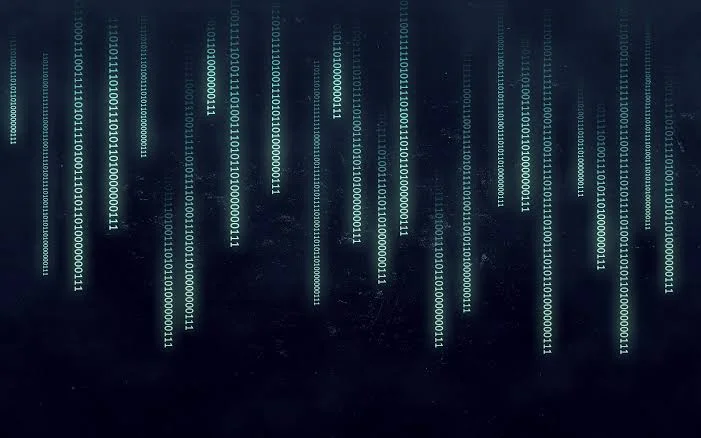
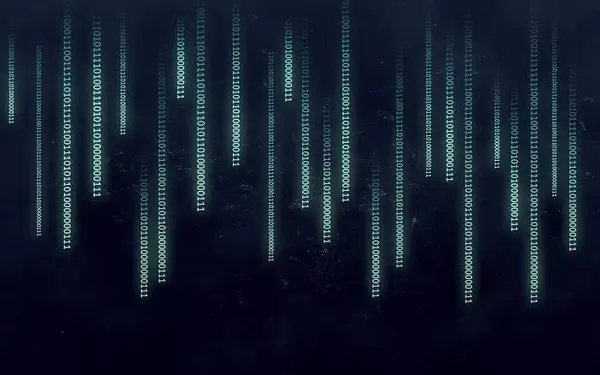
Update seo

diff --git a/index.html b/index.html
@@ -3,7 +3,7 @@
 <head>
   <meta charset="utf-8" />
   <title>Mikael Araya — Freelance Full-Stack Software Engineer | E-Commerce | Open Source</title>
-  <meta name="keywords" content="Mikael Araya, software developer, full stack developer, e-commerce engineer, TypeScript, Node.js, React, Next.js, GraphQL, GraphQL Yoga, Fastify,
+  <meta name="keywords" content="Mikael Araya, Mike Araya, Michael Araya, MikeAraya, software developer, full stack developer, e-commerce engineer, TypeScript, Node.js, React, Next.js, GraphQL, GraphQL Yoga, Fastify,
   open source contributor, unchained engine, headless e-commerce, MongoDB, PostgreSQL, Redis, Tailwind CSS, Zustand, Radix UI,
   Stripe, PayPal, Keycloak, OAuth2, OpenTelemetry, Sentry, Docker, Jenkins, Cypress, Playwright, Vitest, Jest,
   Claude Agent SDK, MCP Servers, AI agents, Drizzle ORM, Apache Solr, ethereum developer, solidity developer, Hyperledger Fabric,
@@ -37,7 +37,7 @@
     "@context": "https://schema.org",
     "@type": "Person",
     "name": "Mikael Araya",
-    "alternateName": "Mikael Araya Mengistu",
+    "alternateName": ["Mikael Araya Mengistu", "Mike Araya", "Michael Araya", "MikeAraya"],
     "url": "https://mikearaya.github.io",
     "image": "https://mikearaya.github.io/images/og-image.jpg",
     "jobTitle": "Freelance Full-Stack Software Engineer",
@@ -152,12 +152,41 @@
 
   <link rel="preconnect" href="https://fonts.googleapis.com">
   <link rel="preconnect" href="https://fonts.gstatic.com" crossorigin>
-  <link rel="preload" as="style" href="https://fonts.googleapis.com/css2?family=Inter:wght@300;400;500;600;700;800&family=JetBrains+Mono:wght@400;500&display=swap">
-  <link href="https://fonts.googleapis.com/css2?family=Inter:wght@300;400;500;600;700;800&family=JetBrains+Mono:wght@400;500&display=swap" rel="stylesheet" media="print" onload="this.media='all'">
-  <noscript><link href="https://fonts.googleapis.com/css2?family=Inter:wght@300;400;500;600;700;800&family=JetBrains+Mono:wght@400;500&display=swap" rel="stylesheet"></noscript>
+  <link href="https://fonts.googleapis.com/css2?family=Inter:wght@300;400;500;600;700;800&family=JetBrains+Mono:wght@400&display=swap" rel="stylesheet" media="print" onload="this.media='all'">
+  <noscript><link href="https://fonts.googleapis.com/css2?family=Inter:wght@300;400;500;600;700;800&family=JetBrains+Mono:wght@400&display=swap" rel="stylesheet"></noscript>
 
-  <link rel="stylesheet" href="css/modern.css" />
-  <link rel="stylesheet" href="css/chat.css" />
+  <link rel="preload" href="images/bg.webp" as="image">
+  <style>
+    :root{--bg:#0a0a0b;--bg-alt:#111113;--bg-card:#18181b;--text:#e4e4e7;--text-muted:#a1a1aa;--text-dim:#71717a;--accent:#6366f1;--accent-light:#818cf8;--accent-glow:rgba(99,102,241,.15);--border:rgba(255,255,255,.06);--radius:12px;--radius-sm:8px;--font:'Inter',-apple-system,BlinkMacSystemFont,'Segoe UI',sans-serif;--transition:.3s cubic-bezier(.4,0,.2,1);--max-width:1200px}
+    *,*::before,*::after{margin:0;padding:0;box-sizing:border-box}
+    html{scroll-behavior:smooth;scroll-padding-top:80px}
+    body{font-family:var(--font);background:var(--bg);color:var(--text);font-size:16px;line-height:1.7;-webkit-font-smoothing:antialiased;overflow-x:hidden}
+    img{max-width:100%;height:auto}
+    .container{max-width:var(--max-width);margin:0 auto;padding:0 24px}
+    .accent{color:var(--accent-light)}
+    .preloader{position:fixed;inset:0;z-index:9999;background:var(--bg);display:flex;align-items:center;justify-content:center;transition:opacity .5s,visibility .5s}
+    .preloader.loaded{opacity:0;visibility:hidden}
+    .preloader__spinner{width:40px;height:40px;border:3px solid var(--border);border-top-color:var(--accent);border-radius:50%;animation:spin .8s linear infinite}
+    @keyframes spin{to{transform:rotate(360deg)}}
+    .nav{position:fixed;top:0;left:0;right:0;z-index:1000;padding:16px 0;transition:all var(--transition)}
+    .nav__container{max-width:var(--max-width);margin:0 auto;padding:0 24px;display:flex;align-items:center;justify-content:space-between}
+    .nav__logo{font-size:1.5rem;font-weight:800;color:var(--text);letter-spacing:-.5px}
+    .nav__menu{display:flex;align-items:center;gap:8px;list-style:none}
+    .nav__link{color:var(--text-muted);font-size:.875rem;font-weight:500;padding:8px 16px;border-radius:var(--radius-sm);transition:all var(--transition);text-decoration:none}
+    .nav__toggle{display:none}
+    .hero{position:relative;min-height:100vh;display:flex;align-items:center;justify-content:center;overflow:hidden}
+    .hero__bg{position:absolute;inset:0;background:url('images/bg.webp') no-repeat center/cover;filter:brightness(.15)}
+    .hero__content{position:relative;z-index:1;text-align:center;padding:0 24px}
+    .hero__title{font-size:clamp(2.5rem,6vw,4rem);font-weight:800;line-height:1.1;margin-bottom:16px;letter-spacing:-1px}
+    .hero__roles{font-size:clamp(1rem,2.5vw,1.3rem);color:var(--text-muted);margin-bottom:32px;min-height:2em}
+    .hero__roles .accent{color:var(--accent-light);border-right:2px solid var(--accent-light)}
+  </style>
+  <link rel="stylesheet" href="css/modern.css" media="print" onload="this.media='all'" />
+  <link rel="stylesheet" href="css/chat.css" media="print" onload="this.media='all'" />
+  <noscript>
+    <link rel="stylesheet" href="css/modern.css" />
+    <link rel="stylesheet" href="css/chat.css" />
+  </noscript>
 </head>
 
 <body>
@@ -233,7 +262,7 @@
       <h2 class="section__title reveal">About <span class="accent">Me</span></h2>
       <div class="about">
         <div class="about__image reveal">
-          <img src="images/my_image.webp" alt="Mikael Araya" loading="lazy" width="480" height="480" />
+          <img src="images/my_image.webp" alt="Mikael Araya" loading="lazy" width="300" height="300" />
         </div>
         <div class="about__content reveal">
           <p class="about__text">
@@ -1301,7 +1330,7 @@
     <svg width="20" height="20" viewBox="0 0 24 24" fill="none" stroke="currentColor" stroke-width="2"><path d="M12 19V5M5 12l7-7 7 7"/></svg>
   </a>
 
-  <script src="js/app.js"></script>
-  <script src="js/chat.js"></script>
+  <script src="js/app.js" defer></script>
+  <script src="js/chat.js" defer></script>
 </body>
 </html>